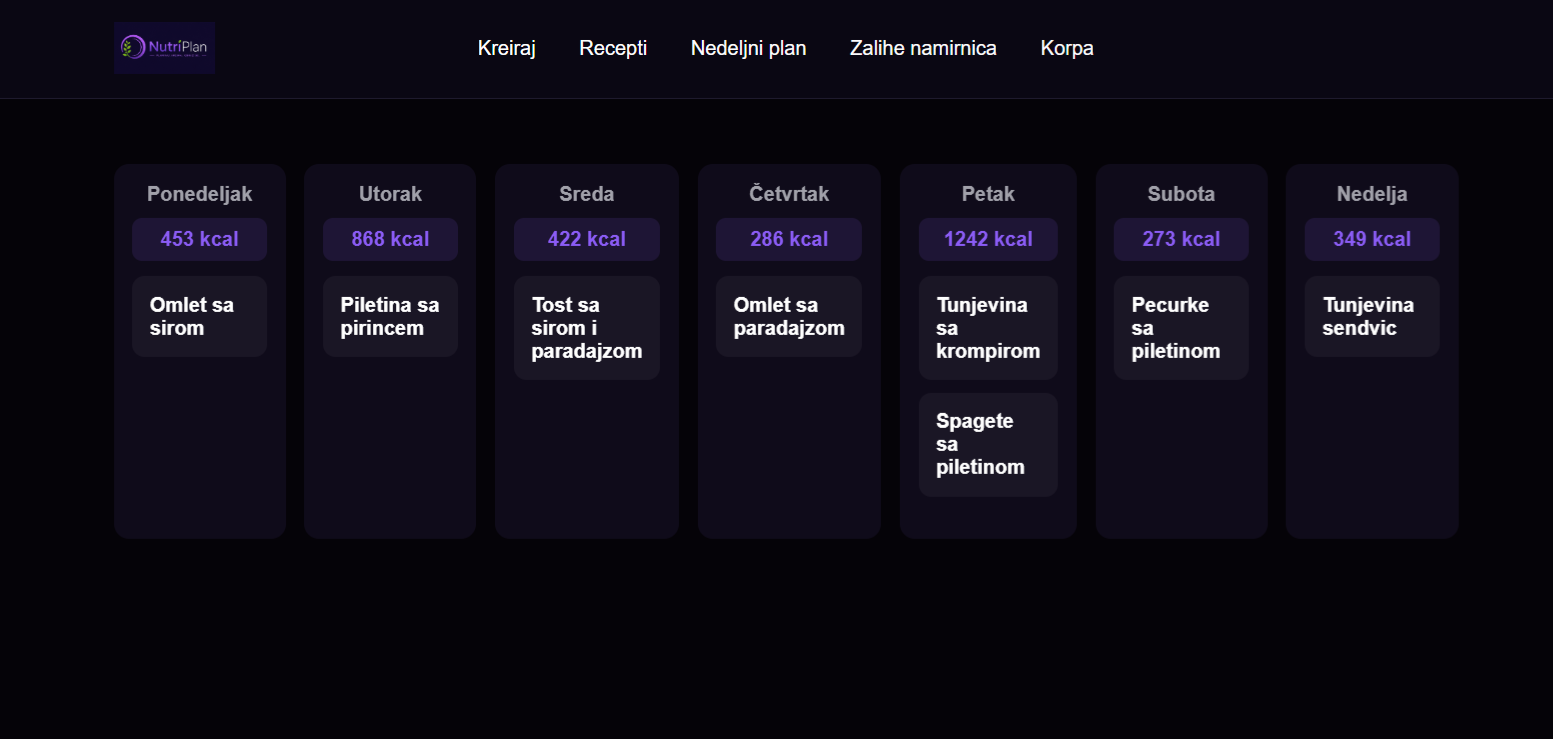
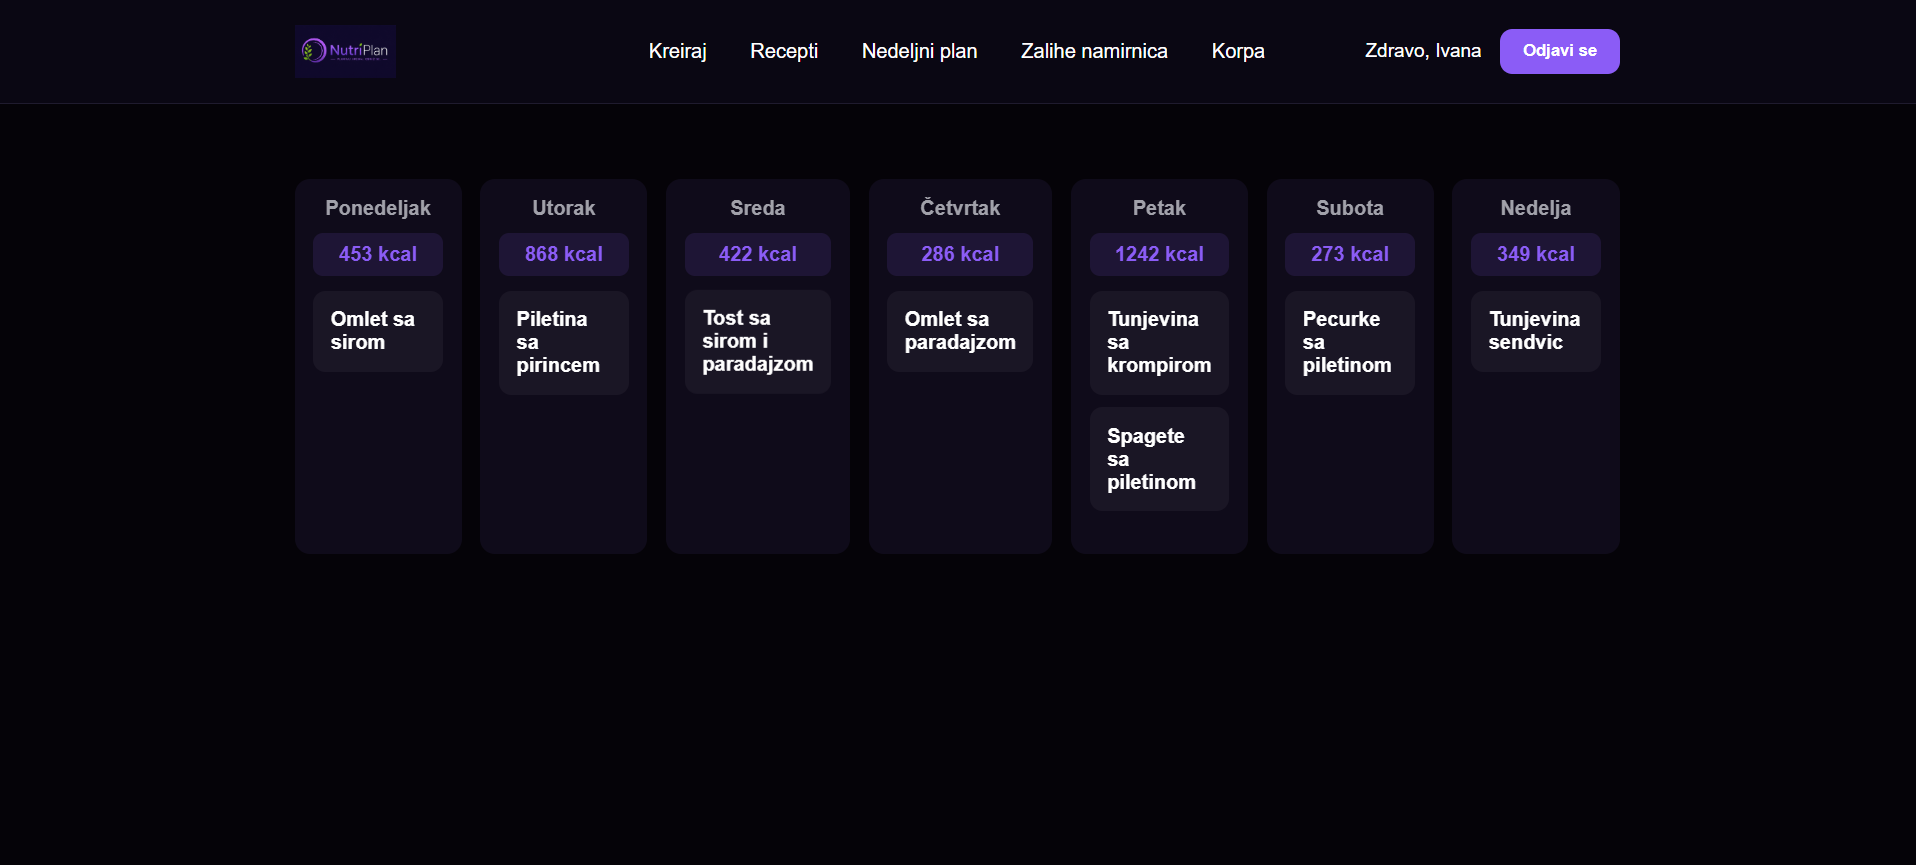
Add personal portfolio website

diff --git a/index.html b/index.html
@@ -48,12 +48,14 @@
                         UI design and building practical web applications. 
                     </p>
                     <p>
-                        I enjoy creating modern websites that combine aesthetics,
-                        functionality and great user experience.
+                        As a final-year Information Systems student, I enjoy transforming ideas 
+                        into modern, responsive websites. I focus on creating clean interfaces, 
+                        intuitive user experiences, and practical solutions that help businesses 
+                        and users achieve their goals.
                     </p>
                 </div>
 
-                <a href="./assets/Ivana-Valigura-CV.pdf" class="btn" download>Download CV</a>
+                <a href="./assets/CV_IvanaValigura.docx" class="btn" download>Download CV</a>
 
             </div>
         </section>
@@ -84,7 +86,7 @@
                 </div>
 
                 <div class="project-card">
-                    <img src="./assets/diplomski.PNG" alt="NutriPlan">
+                    <img src="./assets/diplomski.png" alt="NutriPlan">
                     <h2>Design and implementation web application for planning
                         and managing grocery stock
                     </h2>
@@ -204,25 +206,20 @@
             </div>
         </section>
         <footer class="footer">
-            <div class="container">
+    <div class="container">
 
-                <h2>Ivana Valigura</h2>
-                <p>Frontend Developer & Web Designer</p>
+        <div class="footer__links">
+            <a href="https://github.com/ivanavaligura3">GitHub</a>
+            <a href="#">LinkedIn</a>
+            <a href="mailto:[email redacted]">Email</a>
+        </div>
 
-                <p>Creating modern and user-friendly web experiences.</p>
+        <p class="footer__copy">
+            © 2026 Ivana Valigura
+        </p>
 
-                <div class="footer__links">
-                    <a href="#">GitHub</a>
-                    <a href="#">LinkedIn</a>
-                    <a href="mailto: [email redacted]">Email</a>
-                </div>
-
-                <p class="footer__copy">
-                    © 2026 All rights reserved.
-                </p>
-
-            </div>
-        </footer>
+    </div>
+</footer>
 
         <script src="./csript.js"></script>
 

diff --git a/style.css b/style.css
@@ -399,6 +399,37 @@ list-style: none;
     background: #B08968;
 }
 
+/* ================= FOOTER ================= */
+
+.footer {
+    margin-top: 60px;
+    padding: 25px 20px;
+    border-top: 1px solid #E8DED1;
+    text-align: center;
+}
+
+.footer h2 {
+    font-size: 20px;
+    margin-bottom: 8px;
+}
+
+.footer p {
+    font-size: 14px;
+    margin-bottom: 10px;
+}
+
+.footer__links {
+    display: flex;
+    justify-content: center;
+    gap: 20px;
+    margin-bottom: 10px;
+}
+
+.footer__copy {
+    font-size: 13px;
+    opacity: 0.7;
+}
+
 
 /* ================= RESPONSIVE ================= */
 